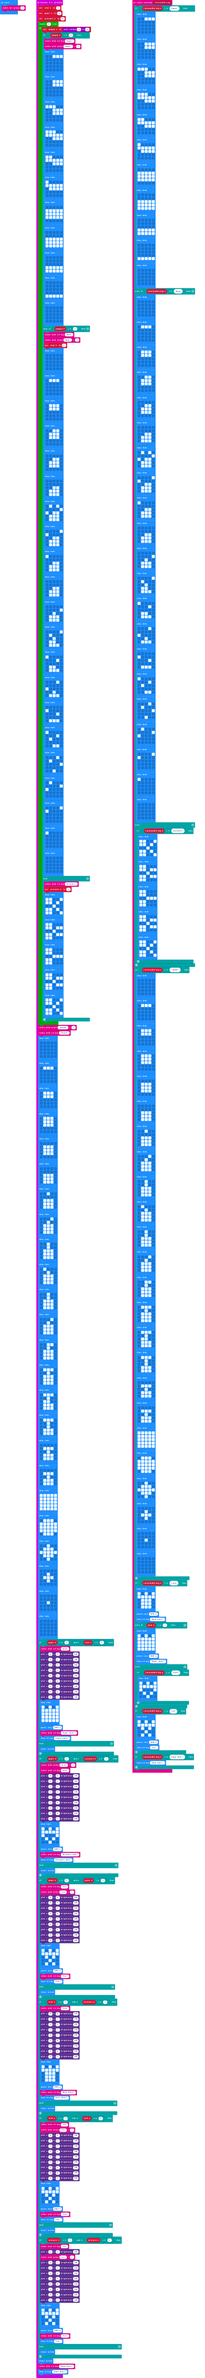
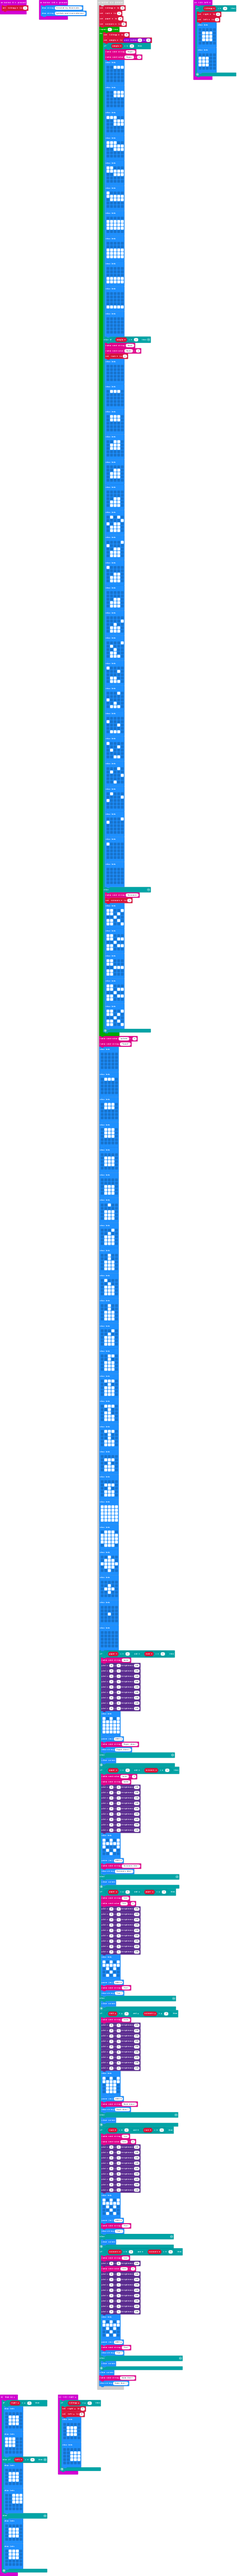
Testing Tilt Easter Egg. and added credits on A+B press.

diff --git a/main.ts b/main.ts
@@ -1,8 +1,10 @@
 input.onButtonPressed(Button.A, function () {
+    tiltegg = 0
     rock = 0
     paper = 0
     scissors = 0
     for (let index = 0; index < 2; index++) {
+        tiltegg = 0
         amogla = randint(0, 2)
         if (amogla == 0) {
             radio.sendString("Paper")
@@ -597,6 +599,78 @@ input.onButtonPressed(Button.A, function () {
     radio.sendString("Game Over!")
     basic.showString("Game Over!")
 })
+input.onGesture(Gesture.LogoUp, function () {
+    if (right == 1) {
+        basic.showLeds(`
+            . . . . .
+            . # # # .
+            . # # # .
+            . # # # .
+            . . . . .
+            `)
+        basic.showLeds(`
+            # # # . .
+            # # # . .
+            # # # . .
+            . . . . .
+            . . . . .
+            `)
+    } else if (left == 1) {
+        basic.showLeds(`
+            . . . . .
+            . # # # .
+            . # # # .
+            . # # # .
+            . . . . .
+            `)
+        basic.showLeds(`
+            . . # # #
+            . . # # #
+            . . # # #
+            . . . . .
+            . . . . .
+            `)
+    } else {
+        basic.showLeds(`
+            . . . . .
+            . # # # .
+            . # # # .
+            . # # # .
+            . . . . .
+            `)
+        basic.showLeds(`
+            . # # # .
+            . # # # .
+            . # # # .
+            . . . . .
+            . . . . .
+            `)
+    }
+})
+input.onGesture(Gesture.TiltLeft, function () {
+    if (tiltegg == 1) {
+        right = 0
+        left = 1
+        basic.showLeds(`
+            . . . . .
+            . # # # .
+            . # # # .
+            . # # # .
+            . . . . .
+            `)
+        basic.showLeds(`
+            . . . . .
+            # # # . .
+            # # # . .
+            # # # . .
+            . . . . .
+            `)
+    }
+})
+input.onButtonPressed(Button.AB, function () {
+    basic.showString("Created by Riverside.")
+    basic.showString("github.com/riversiderose")
+})
 radio.onReceivedString(function (receivedString) {
     let pwin = 0
     if (receivedString == "Paper") {
@@ -1080,8 +1154,34 @@ radio.onReceivedString(function (receivedString) {
         basic.showString("Game Over!")
     }
 })
+input.onButtonPressed(Button.B, function () {
+    tiltegg = 1
+})
+input.onGesture(Gesture.TiltRight, function () {
+    if (tiltegg == 1) {
+        right = 1
+        left = 0
+        basic.showLeds(`
+            . . . . .
+            . # # # .
+            . # # # .
+            . # # # .
+            . . . . .
+            `)
+        basic.showLeds(`
+            . . . . .
+            . . # # #
+            . . # # #
+            . . # # #
+            . . . . .
+            `)
+    }
+})
+let left = 0
+let right = 0
 let amogla = 0
 let scissors = 0
 let paper = 0
 let rock = 0
+let tiltegg = 0
 radio.setGroup(1)
